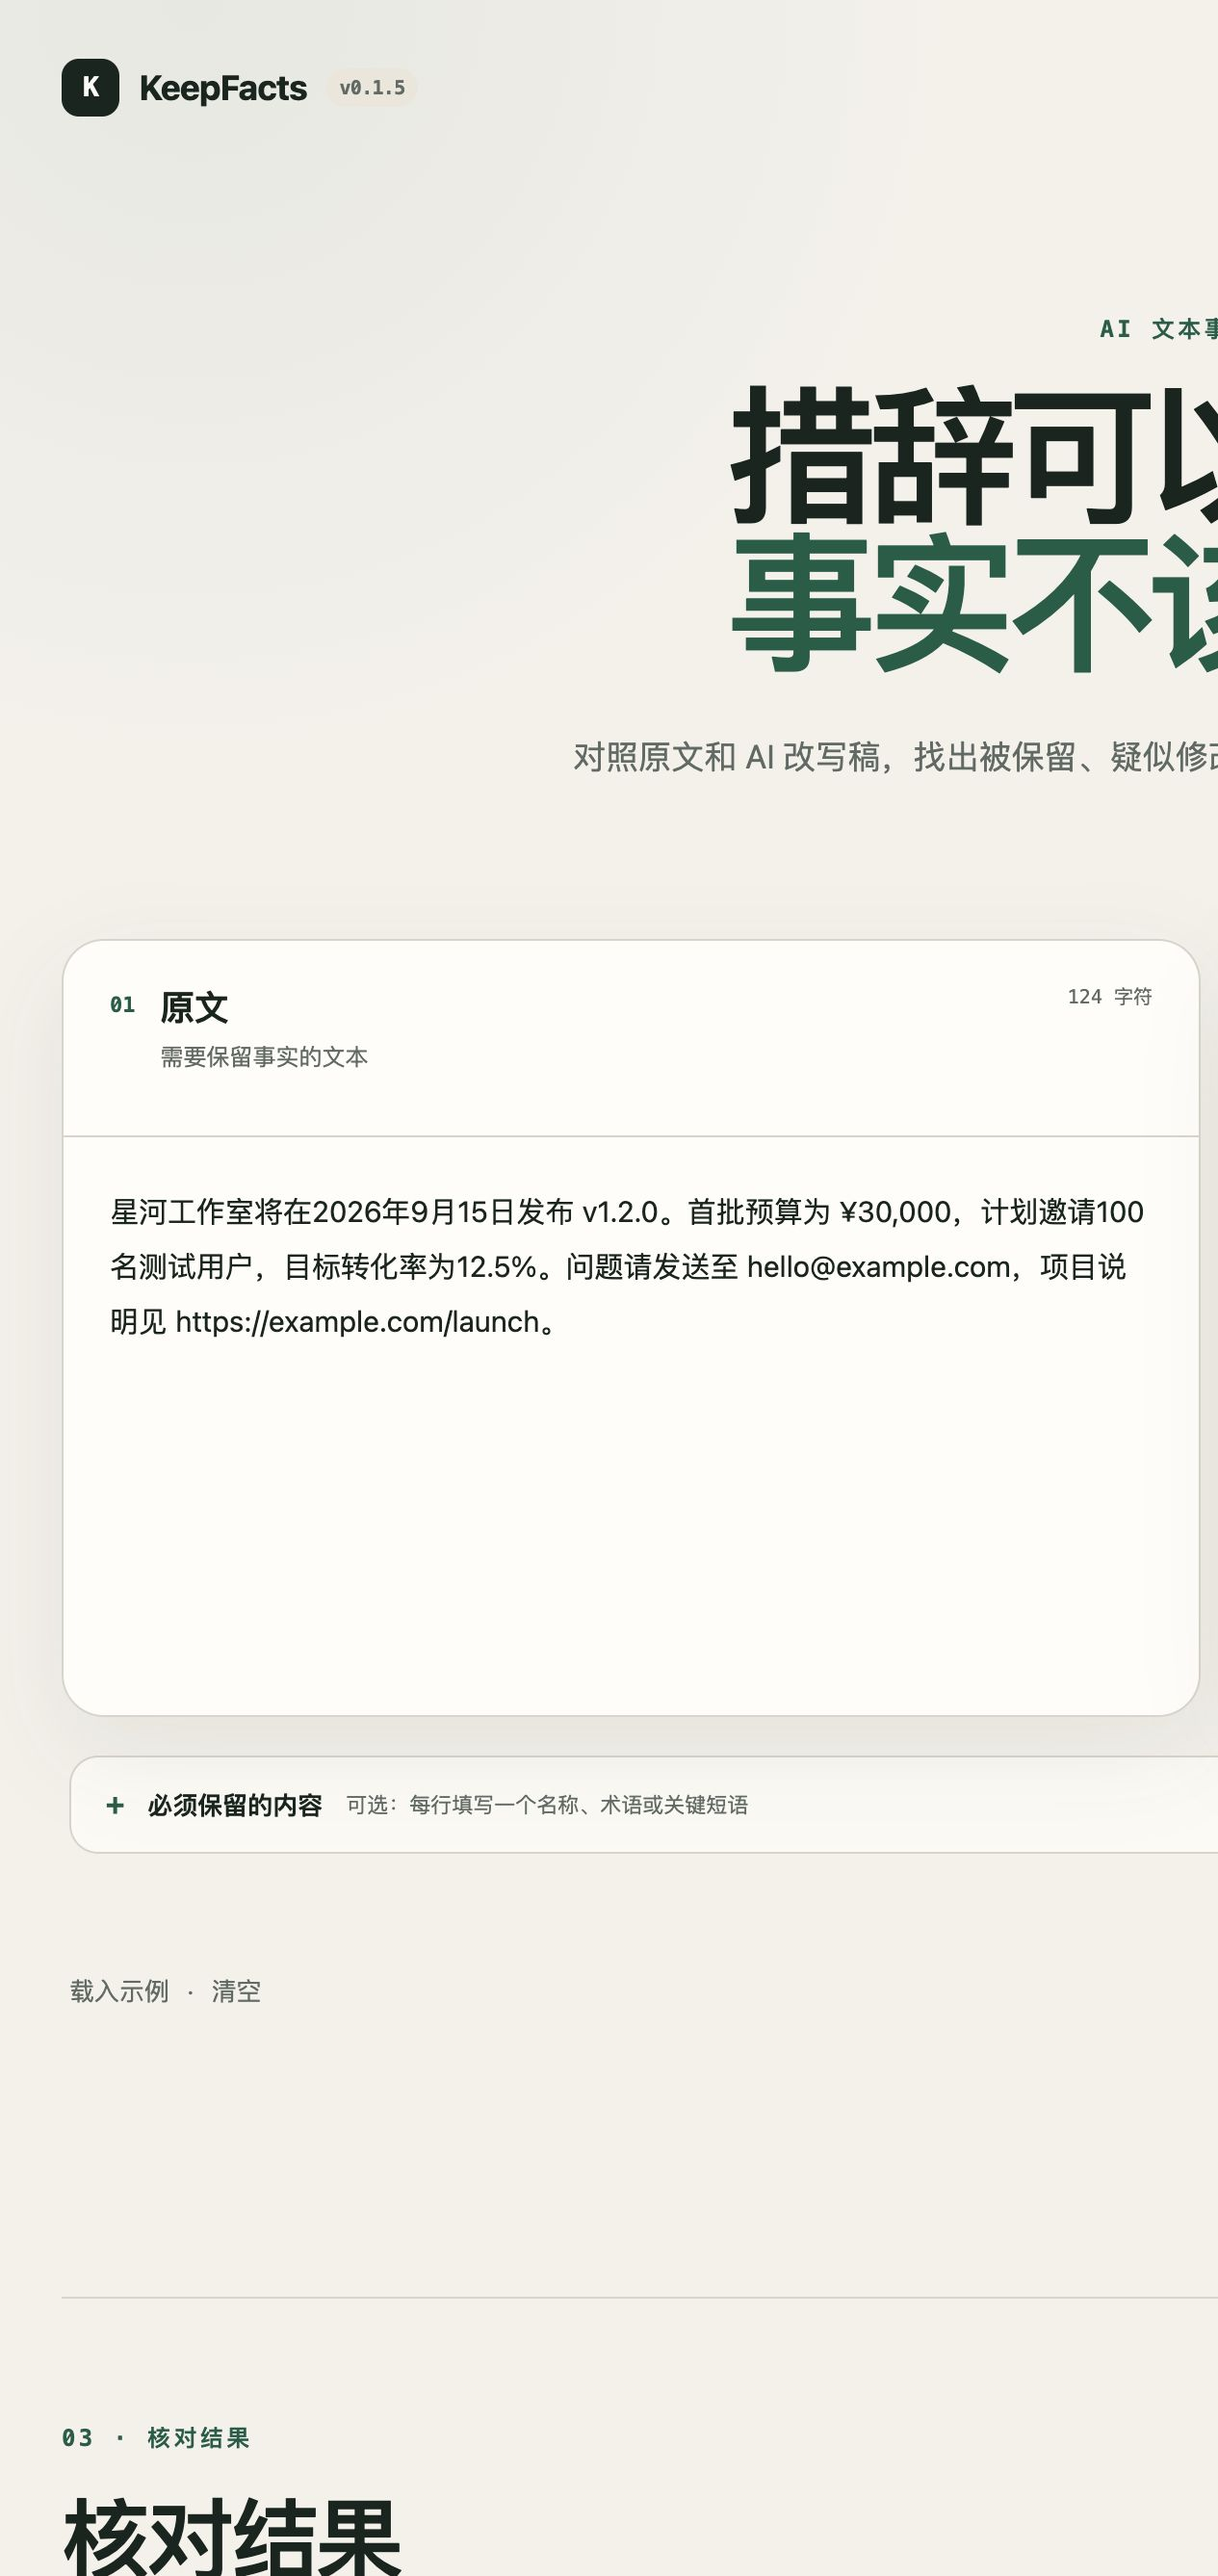
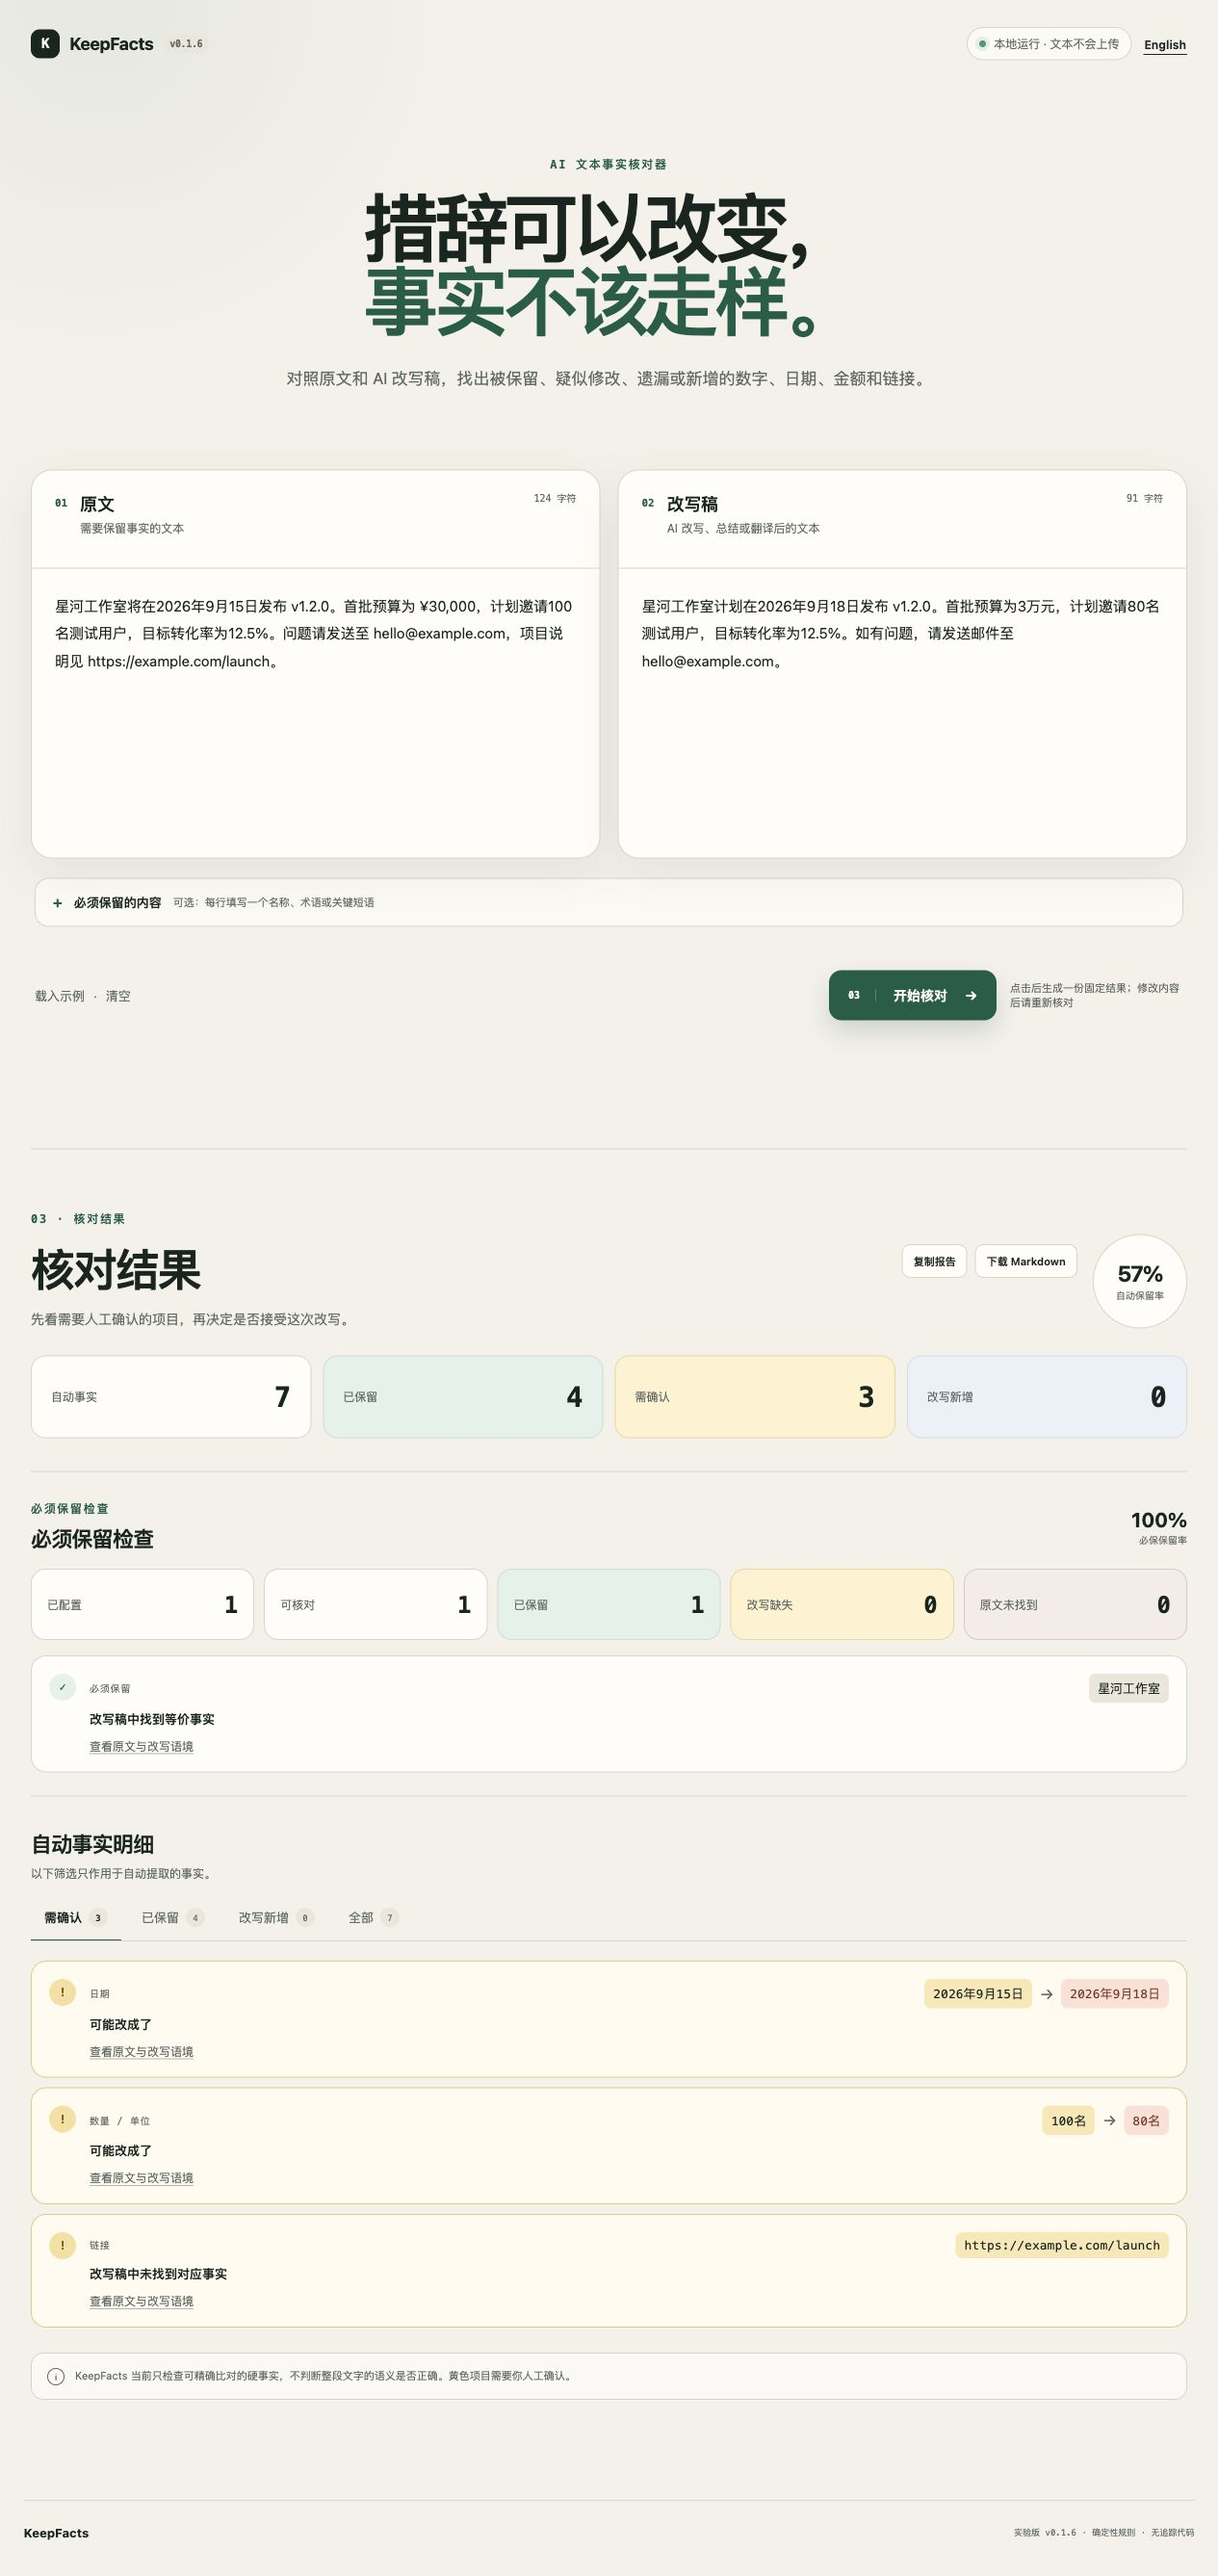
Release v0.1.6 with recoverable Pages deployment

diff --git a/tests/e2e/app.spec.ts b/tests/e2e/app.spec.ts
@@ -1,6 +1,12 @@
 import { AxeBuilder } from "@axe-core/playwright";
 import { expect, test, type Page } from "@playwright/test";
+import { readFileSync } from "node:fs";
 import { readFile } from "node:fs/promises";
+
+const packageMetadata = JSON.parse(
+  readFileSync(new URL("../../package.json", import.meta.url), "utf8"),
+) as { version: string };
+const expectedVersion = `v${packageMetadata.version}`;
 
 async function setComparison(
   page: Page,
@@ -114,7 +120,7 @@ test("copies and downloads a traceable bilingual report", async ({ page, context
   await page.getByRole("button", { name: "复制报告" }).click();
   await expect(page.getByText("报告已复制")).toBeVisible();
   const copied = await page.evaluate(() => navigator.clipboard.readText());
-  expect(copied).toContain("- **KeepFacts 版本:** v0.1.5");
+  expect(copied).toContain(`- **KeepFacts 版本:** ${expectedVersion}`);
   expect(copied).toMatch(/构建提交:\*\* `(?:local|[0-9a-f]{40})`/);
   expect(copied).toContain("原文语境");
   expect(copied).toContain("改写语境");
@@ -126,7 +132,7 @@ test("copies and downloads a traceable bilingual report", async ({ page, context
   const downloadPath = await download.path();
   expect(downloadPath).not.toBeNull();
   const downloaded = await readFile(downloadPath!, "utf8");
-  expect(downloaded).toContain("- **KeepFacts 版本:** v0.1.5");
+  expect(downloaded).toContain(`- **KeepFacts 版本:** ${expectedVersion}`);
   expect(downloaded).toContain("原文语境");
   expect(downloaded).toContain("改写语境");
 

diff --git a/CHANGELOG.md b/CHANGELOG.md
@@ -2,6 +2,15 @@
 
 All notable changes to KeepFacts will be documented here.
 
+## [0.1.6] - 2026-08-12
+
+### Fixed
+
+- Add a tag-bound manual recovery path for GitHub Pages when GitHub suppresses
+  workflow events after multiple historical tags are pushed together.
+- Resolve the deployed commit from the checked-out release tag so the interface
+  and Markdown reports retain the correct build SHA during recovery runs.
+
 ## [0.1.5] - 2026-08-12
 
 ### Added

diff --git a/VALIDATION.md b/VALIDATION.md
@@ -18,7 +18,7 @@ The data-driven corpus lives in
 a source, a rewrite, and the expected number of preserved, review, and added
 facts. The test runner fails when any result changes unexpectedly.
 
-## v0.1.5 snapshot
+## v0.1.6 snapshot
 
 - 37 public validation cases
 - 38 automated unit tests plus Chromium browser and accessibility checks
